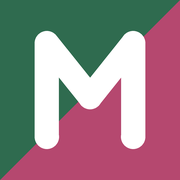
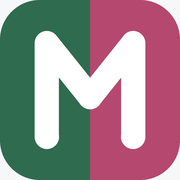
홈 화면 아이콘을 둥근 사각형 + 좌우 절반 분할로 변경
대각선 분할 대신 모서리가 둥근 사각형에 좌(초록)/우(로즈) 절반 분할,
가운데 흰 M. 둥근 모서리 바깥은 배경색(--bg)으로 채워 검은 모서리 방지.

diff --git a/scripts/make_icons.py b/scripts/make_icons.py
@@ -1,4 +1,4 @@
-"""홈 화면 아이콘 생성 — 초록/로즈 대각 분할 사각형 + 흰색 M.
+"""홈 화면 아이콘 생성 — 둥근 사각형, 좌우 절반 두 색 + 가운데 흰색 M.
 
 실행: api/venv 의 python으로 (Pillow 있음) — 이 파일 기준 상위 폴더에 PNG 3장 저장.
     ../api/venv/Scripts/python.exe scripts/make_icons.py
@@ -8,28 +8,40 @@ from PIL import Image, ImageDraw
 
 OUT = Path(__file__).resolve().parent.parent
 
-GREEN = (47, 107, 79, 255)   # --accent / weight
-ROSE = (181, 72, 111, 255)   # --love
+GREEN = (47, 107, 79, 255)     # --accent / weight
+ROSE = (181, 72, 111, 255)     # --love
 WHITE = (255, 255, 255, 255)
+CANVAS_BG = (246, 247, 249, 255)  # --bg — 둥근 모서리 바깥을 채움(검은 모서리 방지)
 
 S = 1024  # 마스터 해상도
+RADIUS = int(S * 0.22)  # 아이콘다운 둥근 정도
 
 
 def make_master() -> Image.Image:
-    img = Image.new("RGBA", (S, S), (0, 0, 0, 0))
-    d = ImageDraw.Draw(img)
-    # 대각 분할: 좌상 삼각형 = green, 우하 삼각형 = rose
-    d.polygon([(0, 0), (S, 0), (0, S)], fill=GREEN)
-    d.polygon([(S, 0), (S, S), (0, S)], fill=ROSE)
-    # 굵은 M (둥근 이음새) — 0..100 좌표계를 S로 스케일, 폰트 없이 폴리라인으로 직접 그림
+    # 1) 좌(green)/우(rose) 절반 배경
+    halves = Image.new("RGBA", (S, S), (0, 0, 0, 0))
+    d = ImageDraw.Draw(halves)
+    d.rectangle([0, 0, S // 2, S], fill=GREEN)
+    d.rectangle([S // 2, 0, S, S], fill=ROSE)
+
+    # 2) 둥근 사각형 마스크
+    mask = Image.new("L", (S, S), 0)
+    ImageDraw.Draw(mask).rounded_rectangle([0, 0, S - 1, S - 1], radius=RADIUS, fill=255)
+
+    # 3) 배경색 캔버스 위에 마스크로 좌우 절반을 오려 붙임 → 모서리 바깥은 배경색
+    img = Image.new("RGBA", (S, S), CANVAS_BG)
+    img.paste(halves, (0, 0), mask)
+
+    # 4) 굵은 M (둥근 이음새) — 0..100 좌표계를 S로 스케일, 폰트 없이 폴리라인으로 직접 그림
+    d2 = ImageDraw.Draw(img)
     def p(x, y):
         return (x / 100 * S, y / 100 * S)
     pts = [p(26, 76), p(26, 24), p(50, 54), p(74, 24), p(74, 76)]
     width = int(0.135 * S)
-    d.line(pts, fill=WHITE, width=width, joint="curve")
+    d2.line(pts, fill=WHITE, width=width, joint="curve")
     r = width / 2
     for x, y in pts:
-        d.ellipse([x - r, y - r, x + r, y + r], fill=WHITE)
+        d2.ellipse([x - r, y - r, x + r, y + r], fill=WHITE)
     return img
 
 
